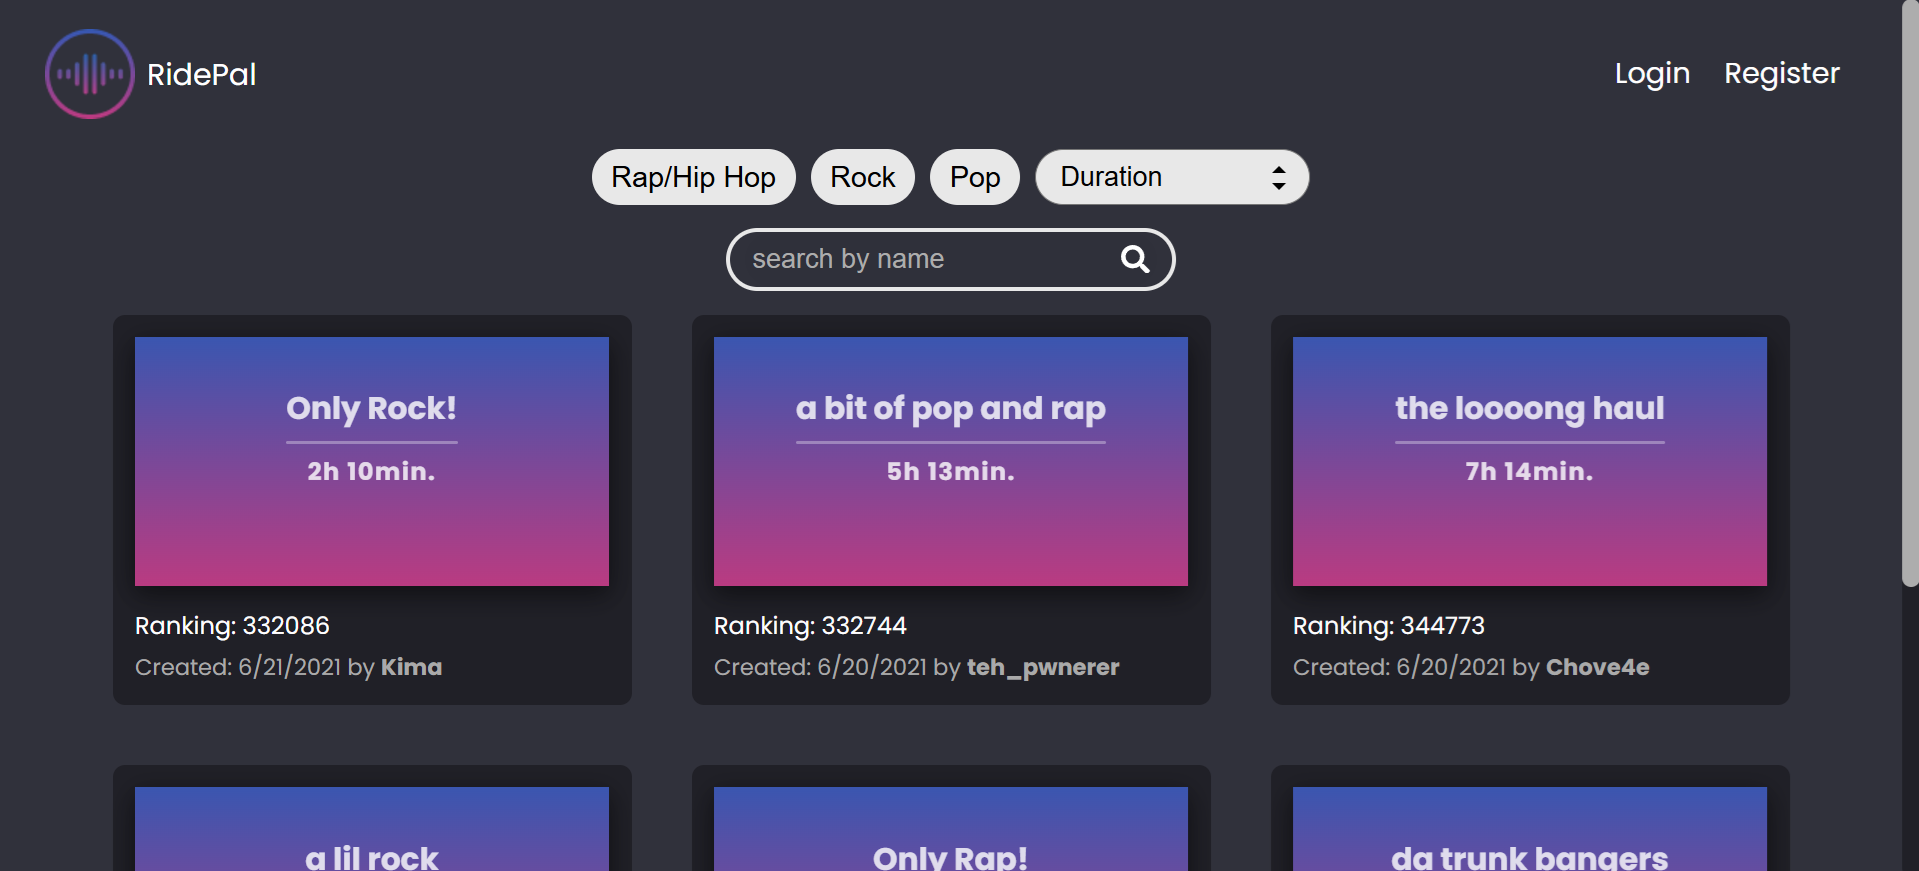
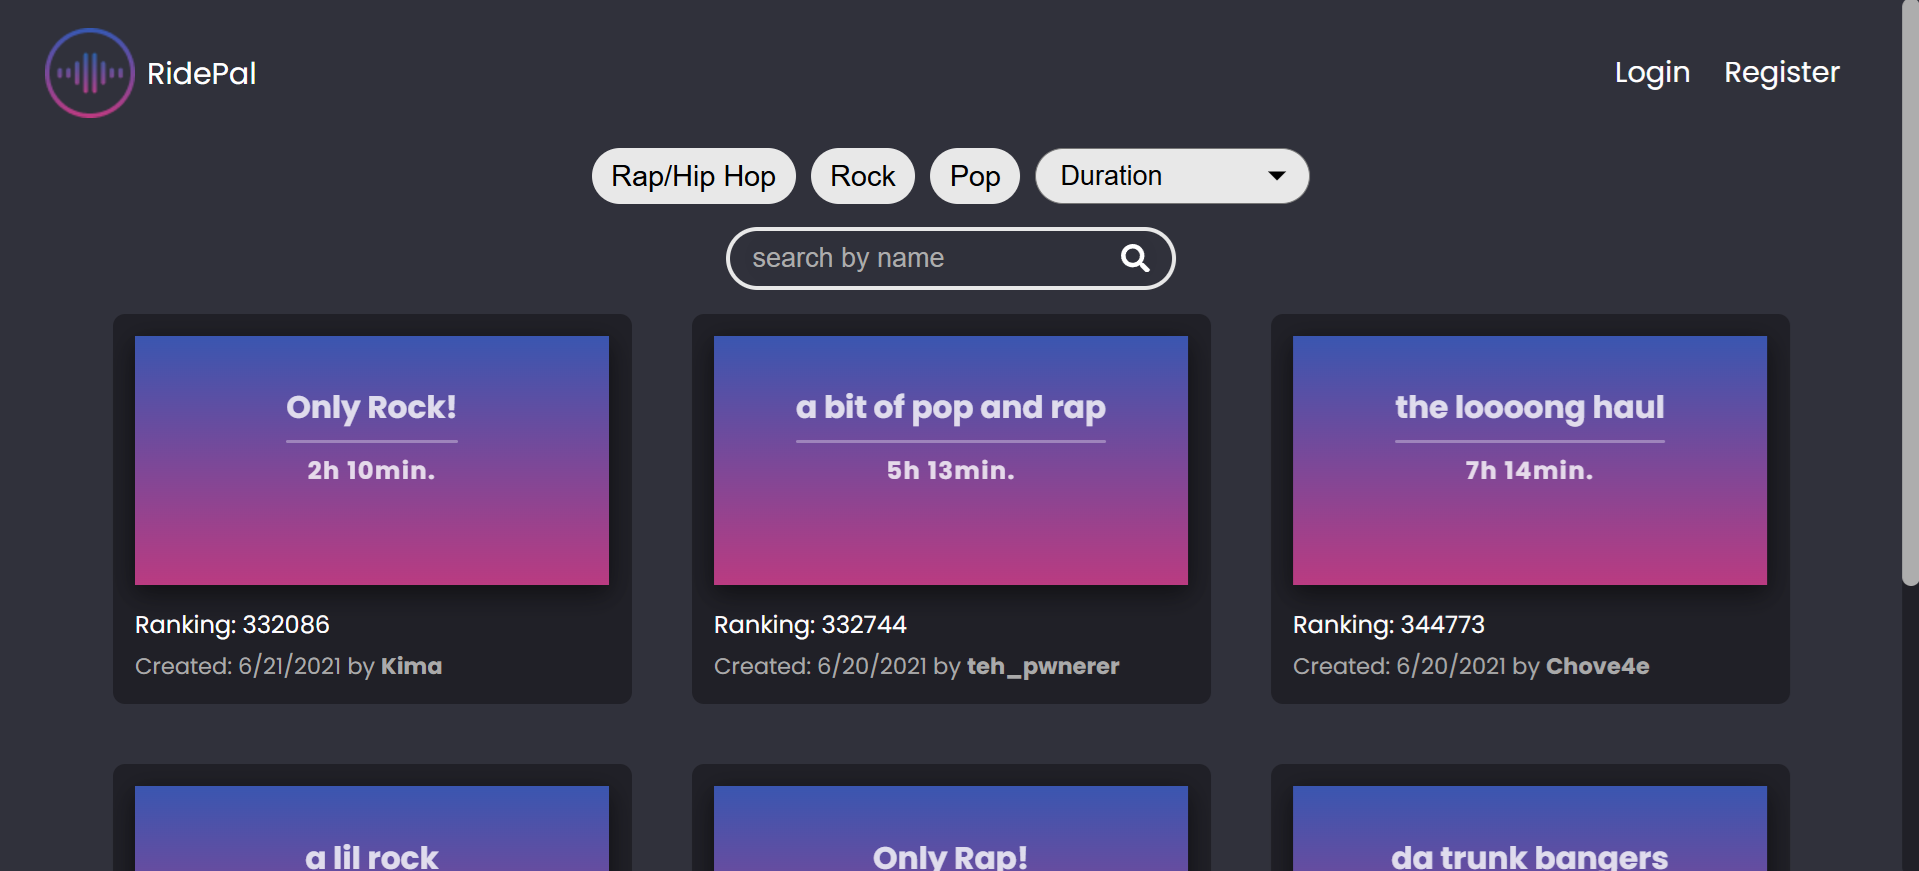
change duration filter select styling

diff --git a/client/src/scss/components/_filters.scss b/client/src/scss/components/_filters.scss
@@ -21,10 +21,12 @@
     cursor: pointer;
 
     &--gradient {
-      background-image: linear-gradient(to right,
-          $violet-pink 0%,
-          $medium-blue 51%,
-          $violet-pink 100%);
+      background-image: linear-gradient(
+        to right,
+        $violet-pink 0%,
+        $medium-blue 51%,
+        $violet-pink 100%
+      );
       background-size: 200% auto;
       color: white;
     }
@@ -33,25 +35,17 @@
   &__custom-select {
     position: relative;
 
-    &::before,
     &::after {
-      --size: 5px;
+      --size: 6px;
       position: absolute;
       content: "";
       right: 16px;
       pointer-events: none;
       border-left: var(--size) solid transparent;
       border-right: var(--size) solid transparent;
-    }
-
-    &::before {
-      border-bottom: var(--size) solid black;
-      top: 30%;
-    }
-
-    &::after {
       border-top: var(--size) solid black;
-      top: 60%;
+      top: 50%;
+      transform: translateY(-50%);
     }
   }
 
